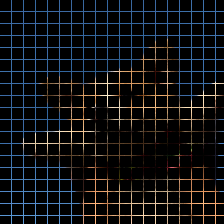
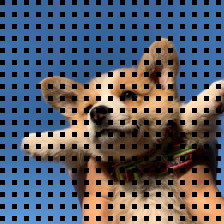
fix bugs

diff --git a/agvbench/models/augments/basic/smdwt.py b/agvbench/models/augments/basic/smdwt.py
@@ -4,63 +4,154 @@ import numpy as np
 import torch.nn.functional as F
 
 @torch.no_grad()
+# def smdwt_pca(img,
+#               thresholds=(0.55, 0.65),
+#               wavelet=('bior1.3', 'bior4.4', 'bior6.8'),
+#               dist_mode=False, 
+#               return_mask=False,
+#               **kwargs):
+#     r"""
+#     Adaptive SMDWT-PCA based augmentation for palm-vein enhancement.
+
+#     Explainable AI: A Multispectral Palm-Vein Identification System
+#     with New Augmentation Features (https://dl.acm.org/doi/10.1145/3468873)". In ACM TMCCA, 2019.
+
+#     Args:
+#         img (Tensor): Input image tensor of shape (N, 3, 224, 224), assumed in [0, 1] range.
+#         thresholds (tuple): (low, high) intensity thresholds for choosing wavelet.
+#         wavelet (tuple): Wavelets used for (dark, mid, bright) images.
+#         return_mask (bool): If True, return list of wavelets used for each sample.
+#     Returns:
+#         Tensor: Augmented images, shape (N, 3, 224, 224)
+#     """
+#     N, C, H, W = img.shape
+#     assert C == 3 and H == 224 and W == 224, "Expected shape (N, 3, 224, 224)"
+#     device = img.device
+
+#     # Convert RGB to grayscale (0.2989 R + 0.5870 G + 0.1140 B)
+#     gray = 0.2989 * img[:, 0] + 0.5870 * img[:, 1] + 0.1140 * img[:, 2]  # (N, H, W)
+#     gray_np = gray.detach().cpu().numpy()  # to numpy for pywt
+
+#     img_ = []
+#     mask = []
+
+#     for i in range(N):
+#         intensity = gray_np[i].mean()
+#         if intensity < thresholds[0]:
+#             current_wavelet = wavelet[0]  # dark -> 13/7
+#         elif intensity > thresholds[1]:
+#             current_wavelet = wavelet[2]  # bright -> 5/3
+#         else:
+#             current_wavelet = wavelet[1]  # mid -> 9/7
+
+#         mask.append(current_wavelet)
+
+#         # Apply DWT and extract LL
+#         coeffs2 = pywt.dwt2(gray_np[i], wavelet=current_wavelet)
+#         LL, _ = coeffs2
+
+#         # Convert LL to tensor and interpolate to 224 X 224
+#         LL_tensor = torch.tensor(LL, dtype=torch.float32).unsqueeze(0).unsqueeze(0)  # (1,1,h,w)
+#         LL_resized = F.interpolate(LL_tensor, size=(H, W), mode='bicubic', align_corners=False)
+#         LL_norm = (LL_resized - LL_resized.min()) / (LL_resized.max() - LL_resized.min() + 1e-8)
+#         img_.append(LL_norm)
+
+#     # Stack and repeat channels
+#     img = torch.cat(img_, dim=0)  # (N,1,H,W)
+#     img = img.repeat(1, 3, 1, 1).to(device)  # (N,3,H,W)
+
+#     if return_mask:
+#         return img, mask
+#     else:
+#         return img
+
+def choose_coff(wavelet='5/3'):
+    if wavelet == '5/3':
+        coeffs = {
+            (-2, -2): -0.03125, (-2, 2): -0.03125, (2, -2): -0.03125, (2, 2): -0.03125,
+            (-1, -2): 0.015625, (1, -2): 0.015625, (-2, -1): 0.015625, (-2, 1): 0.015625,
+            (-2, 0): 0.0625, (0, -2): 0.0625, (0, 2): 0.0625, (2, 0): 0.0625,
+            (-1, -1): 0.09375, (-1, 1): 0.09375, (1, -1): 0.09375, (1, 1): 0.09375,
+            (-1, 0): 0.1875, (0, -1): 0.1875, (1, 0): 0.1875, (0, 1): 0.1875,
+            (0, 0): 0.5625,
+        }
+    elif wavelet == '9/7':
+        coeffs = {
+            (-4, -4): 0.00108, (4, -4): 0.00108, (-4, 4): 0.00108, (4, 4): 0.00108,
+            (-3, -4): -0.000683, (-4, -3): -0.000683, (3, -4): -0.000683, (-4, 3): -0.000683,
+            (-2, -4): -0.00368, (-4, -2): -0.00368, (2, -4): -0.00368, (-4, 2): -0.00368,
+            (-1, -4): 0.01113, (-4, -1): 0.01113, (1, -4): 0.01113, (-4, 1): 0.01113,
+            (0, -4): 0.01722, (-4, 0): 0.01722,
+            (-3, -3): 0.00043, (3, -3): 0.00043, (-3, 3): 0.00043, (3, 3): 0.00043,
+            (-2, -3): 0.00232, (-3, -2): 0.00232, (2, -3): 0.00232, (-3, 2): 0.00232,
+            (-1, -3): -0.00702, (-3, -1): -0.00702, (1, -3): -0.00702, (-3, 1): -0.00702,
+            (0, -3): -0.01085, (-3, 0): -0.01085,
+            (-2, -2): 0.01253, (2, -2): 0.01253, (-2, 2): 0.01253, (2, 2): 0.01253,
+            (-1, -2): -0.03786, (-2, -1): -0.03786, (-1, 2): -0.03786, (2, -1): -0.03786,
+            (0, -2): -0.05857, (-2, 0): -0.05857,
+            (-1, -1): 0.1144, (1, -1): 0.1144, (-1, 1): 0.1144, (1, 1): 0.1144,
+            (0, -1): 0.1769, (-1, 0): 0.1769,
+            (0, 0): 0.2737
+        }
+    else:
+        raise ValueError("Wrong Wavelet.")
+    
+    return coeffs
+        
+
+
 def smdwt_pca(img,
-              thresholds=(0.55, 0.65),
-              wavelet=('bior1.3', 'bior4.4', 'bior6.8'),
+              wavelet='5/3',
               dist_mode=False, 
               return_mask=False,
               **kwargs):
-    r"""
-    Adaptive SMDWT-PCA based augmentation for palm-vein enhancement.
-
-    Explainable AI: A Multispectral Palm-Vein Identification System
-    with New Augmentation Features (https://dl.acm.org/doi/10.1145/3468873)". In ACM TMCCA, 2019.
+    """
+    Strict SMDWT-PCA LL-band augmentation using fixed coefficients from the paper.
 
     Args:
-        img (Tensor): Input image tensor of shape (N, 3, 224, 224), assumed in [0, 1] range.
-        thresholds (tuple): (low, high) intensity thresholds for choosing wavelet.
-        wavelet (tuple): Wavelets used for (dark, mid, bright) images.
-        return_mask (bool): If True, return list of wavelets used for each sample.
+        img (Tensor): Input grayscale images (N, 1, H, W), values in [0,1].
+        wavelet (str): '5/3' or '9/7'.
+        return_mask (bool): Whether to return coefficient mask positions used.
+
     Returns:
-        Tensor: Augmented images, shape (N, 3, 224, 224)
+        Tensor: (N, 1, H, W) augmented LL-band image
+        OR (Tensor, List[Dict]): If return_mask=True, also returns per-sample coefficient usage.
     """
-    N, C, H, W = img.shape
-    assert C == 3 and H == 224 and W == 224, "Expected shape (N, 3, 224, 224)"
+
+    assert img.ndim == 4 and img.shape[1] == 3, "Expected shape (N, 3, H, W)"
+    N, _, H, W = img.shape
     device = img.device
 
-    # Convert RGB to grayscale (0.2989 R + 0.5870 G + 0.1140 B)
+    # Convert RGB to grayscale
     gray = 0.2989 * img[:, 0] + 0.5870 * img[:, 1] + 0.1140 * img[:, 2]  # (N, H, W)
-    gray_np = gray.detach().cpu().numpy()  # to numpy for pywt
+    gray = gray.unsqueeze(1)  # (N, 1, H, W)
 
-    img_ = []
-    mask = []
+    if wavelet == '5/3':
+        kernel_size = 5
+        padding = 2
 
-    for i in range(N):
-        intensity = gray_np[i].mean()
-        if intensity < thresholds[0]:
-            current_wavelet = wavelet[0]  # dark -> 13/7
-        elif intensity > thresholds[1]:
-            current_wavelet = wavelet[2]  # bright -> 5/3
-        else:
-            current_wavelet = wavelet[1]  # mid -> 9/7
+    elif wavelet == '9/7':
+        kernel_size = 9
+        padding = 4
+    else:
+        raise ValueError("wavelet must be '5/3' or '9/7'")
 
-        mask.append(current_wavelet)
+    coeffs =  choose_coff(wavelet)
 
-        # Apply DWT and extract LL
-        coeffs2 = pywt.dwt2(gray_np[i], wavelet=current_wavelet)
-        LL, _ = coeffs2
+    # unfold patches
+    unfold = torch.nn.Unfold(kernel_size=kernel_size, padding=padding)
+    patches = unfold(img)  # (N, K*K, H*W)
+    K = kernel_size
+    output = torch.zeros((N, H * W), device=device)
 
-        # Convert LL to tensor and interpolate to 224 X 224
-        LL_tensor = torch.tensor(LL, dtype=torch.float32).unsqueeze(0).unsqueeze(0)  # (1,1,h,w)
-        LL_resized = F.interpolate(LL_tensor, size=(H, W), mode='bicubic', align_corners=False)
-        LL_norm = (LL_resized - LL_resized.min()) / (LL_resized.max() - LL_resized.min() + 1e-8)
-        img_.append(LL_norm)
+    for (dy, dx), weight in coeffs.items():
+        idx = (K // 2 + dy) * K + (K // 2 + dx)
+        output += weight * patches[:, idx]
 
-    # Stack and repeat channels
-    img = torch.cat(img_, dim=0)  # (N,1,H,W)
-    img = img.repeat(1, 3, 1, 1).to(device)  # (N,3,H,W)
+    out = output.view(N, 1, H, W).clamp(0, 1).repeat(1, 3, 1, 1)
+
 
     if return_mask:
-        return img, mask
+        return out, coeffs
     else:
-        return img
+        return out

diff --git a/test/test_vis.py b/test/test_vis.py
@@ -1,4 +1,4 @@
-from agvbench.models.augments.basic import (randomblur, cutout, gridmask, spnoise, ricap, yoco)
+from agvbench.models.augments.basic import (randomblur, cutout, gridmask, spnoise, ricap, yoco, smdwt_pca, randnquant)
 from agvbench.models.augments.basic.softaugment import softaugment
 from agvbench.models.augments.mixups import augmix
 from torchvision import transforms
@@ -16,21 +16,23 @@ def main():
     transform_vis  = transforms.Compose(transform_list)
     
     img = Image.open("demo/demo.jpg")
-    img = transform_vis(img).unsqueeze(0)
+    img = transform_vis(img).unsqueeze(0).cuda()
 
-    img = randomblur(img)
-    img = cutout(img)
+    # img = randomblur(img)
+    # img = cutout(img)
     img = gridmask(img)
-    img = spnoise(img)
-    img = ricap(img)
-    img = yoco(img)
-    img, _ = augmix(img)
-    img, lam = softaugment(img)
-    # save_image = transforms.ToPILImage()
-    # img = save_image(img.squeeze(0))
-    # img = img.convert("RGB")
-    # img.save('softaug.png')
-    # raise ValueError("debugging")
+    # img = spnoise(img)
+    # img = ricap(img)
+    # img = yoco(img)
+    # img, _ = augmix(img)
+    # img, lam = softaugment(img)
+    # img = smdwt_pca(img)
+    # img = randnquant(img)
+    save_image = transforms.ToPILImage()
+    img = save_image(img.squeeze(0))
+    img = img.convert("RGB")
+    img.save('gridmask.png')
+    raise ValueError("debugging")
 
 
 if __name__=="__main__":

diff --git a/tools/analysis_tools/compute_eer.py b/tools/analysis_tools/compute_eer.py
@@ -139,12 +139,15 @@ def main():
     # create work_dir
     mmcv.mkdir_or_exist(osp.abspath(cfg.work_dir))
     parts = args.checkpoint.split('/')
-    sub_dir = f"{parts[-4]}/{parts[-3]}/{parts[-2]}"
+    for i in range(len(parts)):
+        if '300e' in parts[i] or '600e' in parts[i]:
+            loca_index = i
+    sub_dir = f"{parts[loca_index - 1]}/{parts[loca_index]}/{parts[-2]}"
     npy_dir = osp.join(args.work_dir, sub_dir)
 
     # logger
     timestamp = time.strftime('%Y%m%d_%H%M%S', time.localtime())
-    log_file = osp.join(cfg.work_dir, f'eer_{parts[-3]}_{parts[-2]}.log')
+    log_file = osp.join(cfg.work_dir, f'eer_{parts[loca_index]}_{parts[-2]}.log')
     logger = get_root_logger(log_file=log_file, log_level=cfg.log_level)
 
     # build the dataloader

diff --git a/agvbench/models/classifiers/basic_aug_classification.py b/agvbench/models/classifiers/basic_aug_classification.py
@@ -85,7 +85,7 @@ class BasicAugClassification(BaseModel):
             yoco=dict(),
             softaugment=dict(t_crop=1.0, max_p_crop=1.0, pow_crop=2.0, bg_crop=1, sigma_crop=12,
                         iou=False, n_classes=220),
-            smdwt_pca=dict(thresholds=(0.55, 0.65), wavelet=('bior1.3', 'bior4.4', 'bior6.8')),
+            smdwt_pca=dict(wavelet="5/3"),
             keepaugment=dict(threshold=0.5, mode='paste', randaugment_n=2, randaugment_m=9),
             vanilla=dict(),
         )

diff --git a/configs/classification/_base_/vera220/sz224_bs32_vanilla.py b/configs/classification/_base_/vera220/sz224_bs32_vanilla.py
@@ -10,7 +10,6 @@ dataset_type = 'ClassificationDataset'
 img_norm_cfg = dict(mean=[0.4399, 0.4399, 0.4399], std=[0.114, 0.114, 0.114])
 train_pipeline = [
     dict(type='RandomResizedCrop', size=224, interpolation=3),  # bicubic
-    #  dict(type='Resize', size=224),
 ]
 test_pipeline = [
     dict(type='Resize', size=256, interpolation=3),  # 0.85

diff --git a/configs/classification/vera220/resnet18/300ep/basic/r18_smdwt.py b/configs/classification/vera220/resnet18/300ep/basic/r18_smdwt.py
@@ -3,7 +3,7 @@ _base_ = "../r18_basicaug_sz224_bs32.py"
 model = dict(
     aug_mode="smdwt_pca",
     aug_args=dict(
-        smdwt_pca=dict(thresholds=(0.55, 0.65), wavelet=('bior1.3', 'bior4.4', 'bior6.8')),
+        smdwt_pca=dict(wavelet='5/3'),
     )
 )
 

diff --git a/agvbench/models/augments/basic/ricap.py b/agvbench/models/augments/basic/ricap.py
@@ -44,8 +44,6 @@ def ricap(img,
 
     # select four img
     cropped_images = {}
-    # gt_label_ = {}
-    # lam_ = {}
     gt_label_ = []
     lam_ = []
     for k in range(4):
